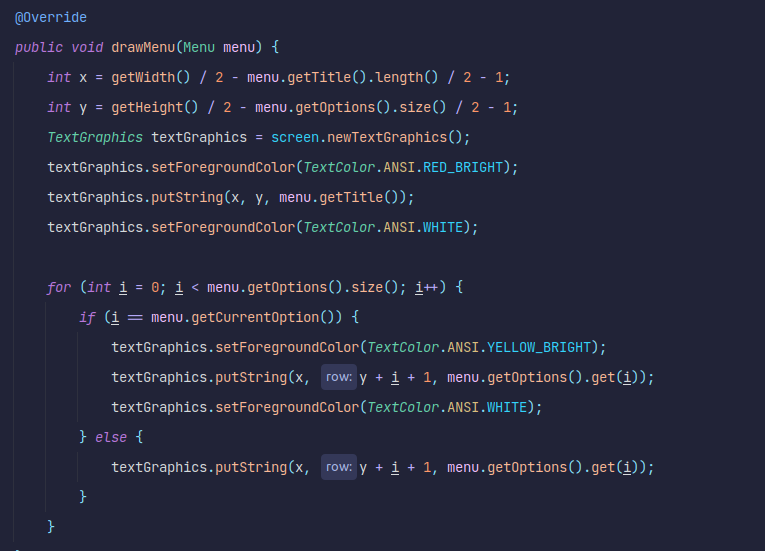
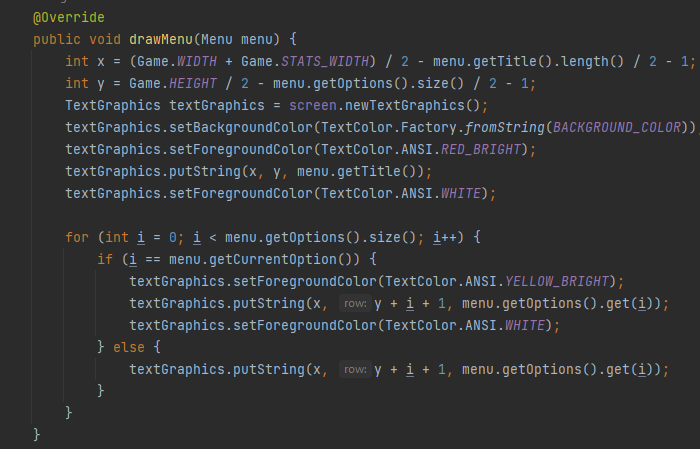
Added footage

diff --git a/docs/README.md b/docs/README.md
@@ -10,8 +10,7 @@
     eliminares, mas eles também estão armados, e dispararão de volta. Além disso, as paredes da sala são feitas de Koli, 
     uma anti-matéria alienígena super secreta que faz com que qualquer entidade da Terra, pessoa ou máquina, se 
     desintegre ao seu toque, por isso mantém-te longe das paredes no teu caminho para a saída!
-    Este jogo é inspirado no Berzerk, mas com mais elementos de interação. O Berzerk é um jogo para a Atari 2600 que tem
-    como principal objetivo a saída de uma sala repleta de monstros.
+    Este jogo é inspirado no Berzerk, mas com mais elementos de interação. O Berzerk é um jogo para a Atari 2600 que tem como principal objetivo a saída de uma sala repleta de monstros.
 	
 	Este projeto foi desenvolvido por Duarte Gonçalves (up202108772@up.pt), 
     Gonçalo Miranda (up202108773@up.pt) e Marco Vilas Boas (up202108774@up.pt).
@@ -52,9 +51,19 @@ Neste diagrama UML, podemos ver as classes que foram implementadas e como se rel
 **Pattern:** Para resolver este problema usamos o pattern State. Implementamos uma abstract class State, e as classes MenuState e GameState, que implementam o método update() de forma diferente. O método update() é chamado a cada frame, e é responsável por desenhar o estado atual do jogo.
 
 **Implementação:** O seguinte diagrama mostra a implementação do pattern State no nosso projeto:
-<img src="snippets/state.png"/>
+<img src="snippets/State.png"/>
 
 **Consequências:** Este pattern permite-nos desenhar a GUI de forma diferente consoante o estado do jogo, e permite-nos adicionar mais estados ao jogo sem ter de alterar a GUI.
+
+#### O agente deve comportar-se de formas diferentes conforme o power-up que carrega.
+**Problema:** Se o agente possuir um shield, deverá ser invulnerável ao primeiro ataque de monstro que receber, se possuir um canon deve disparar uma bala em cada direção (apenas uma vez) e se possuir um lazer dispara um "feixe" de balas na direção para a qual aponta, até à parede mais próxima.
+
+**Pattern:** Para resolver este problema usamos o pattern State. Implementamos uma abstract class AgentState, e as classes AgentCannon, AgentLaser, AgentNormal and AgentShield, que implementam o método shoot() de forma diferente. O método shoot é responsável por fazer o agente disparar e é chamado a cada vez que o utilizador pressiona a tecla designada para essa ação (tecla de espaço - Spacebar).
+
+**Implementação:** O seguinte diagrama mostra a implementação do pattern State no nosso projeto:
+<img src="snippets/AgentState.png"/>
+
+**Consequências:** Este pattern permite-nos implementaros disparos do agente de diferente consoante o power-up utilizado, e permite-nos adicionar mais power-ups ao jogo sem ter de alterar o agente.
 
 #### Todos os elementos se comportam de forma semelhante, mas com propriedades diferentes
 **Problema:** O agente, as paredes, os robots e os disparos são todos parte da arena e comportam-se de forma semelhante, mas têm propriedades diferentes, como o movimento e a abilidade de disparar. Precisavamos de uma maneira de representar todos estes elementos de forma a que fosse fácil adicionar novos elementos ao jogo.
@@ -66,6 +75,7 @@ Neste diagrama UML, podemos ver as classes que foram implementadas e como se rel
 
 **Consequências:** Este pattern permite-nos tratar todos os elementos como se de um Element se tratasse, e adicionar novos elementos ao jogo sem ter de alterar o código.
 
+
 ### 'Code smells' e oportunidades de 'refactoring'
 #### MenuSettings executeOption()
 **Problema:** O método executeOption() da classe MenuSettings está programado para mostrar o menu inicial 
@@ -75,13 +85,6 @@ quando se escolhe a opção "Back", assumindo que este menu é sempre chamado a 
 
 
 **Refactoring:** Devemos criar um método que mostre o menu anterior, e chamar esse método quando se escolhe a opção "Back".
-
-#### Adicionar os disparos
-**Problema:** O método addElement() não adiciona os disparos à lista de elementos.
-<img src="snippets/AddElementsSnippet.png"/>
-
-
-**Refactoring:** Deviamos adicionar os disparos aos Elements junto com os outros elementos, adicionando bullets.add(bullet) ao if statement.
 
 #### DrawMenu é demasiado longo
 **Problema:** O método drawMenu() na classe LanternaGUI é demasiado longo.
@@ -96,8 +99,10 @@ Todos os testes realizados passam, mas ainda falta implementar alguns testes.
 <img src="snippets/UnitTesting.png"/>
 
 ### Testes de mutação
-Falta atingir uma maior coverage de código!
-<img src="snippets/MutationTesting.png"/>
+Foi atingida uma Mutation Coverage de 66%, se presentes na avaliação as classes Game e LanternaGUI.
+<img src="snippets/MutationTestingWithGame.png"/>
+Posteriormente, se não contarmos com essas classes, a coverage aumenta para 67%.
+<img src="snippets/MutationTestingWithoutGame.png"/>
 
 ### Auto-avaliação
 Gonçalo: 33%
